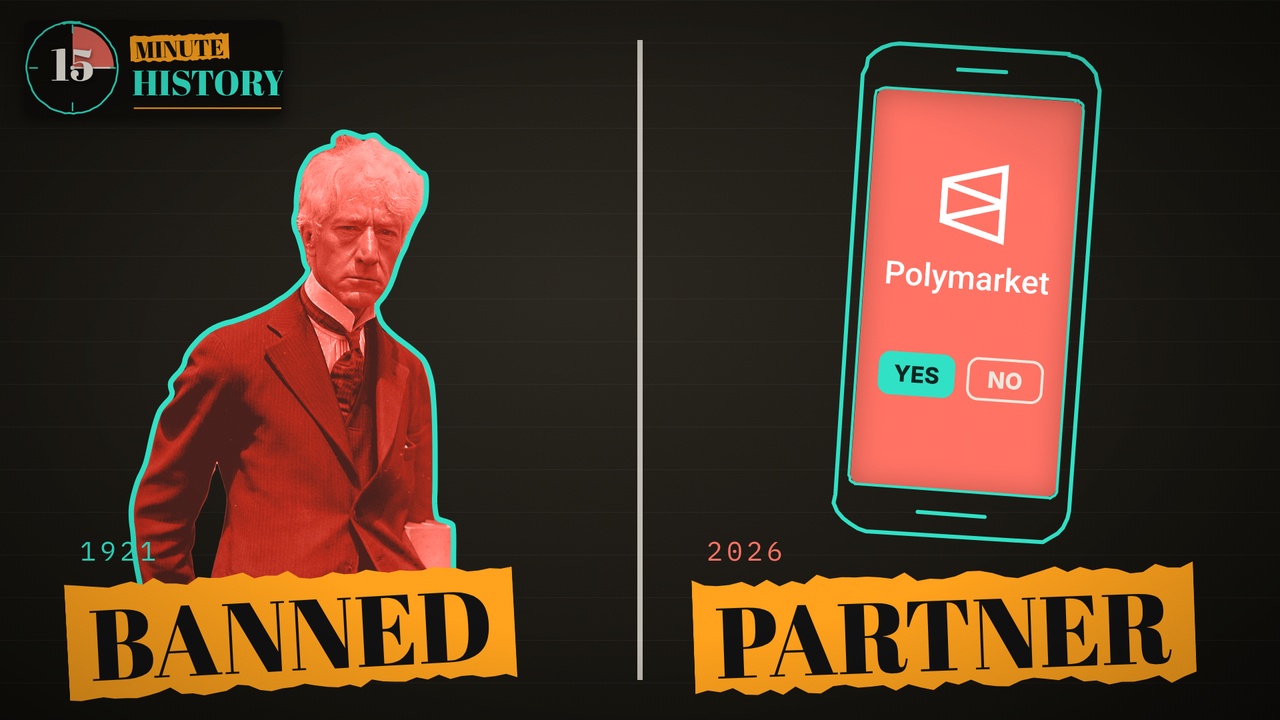
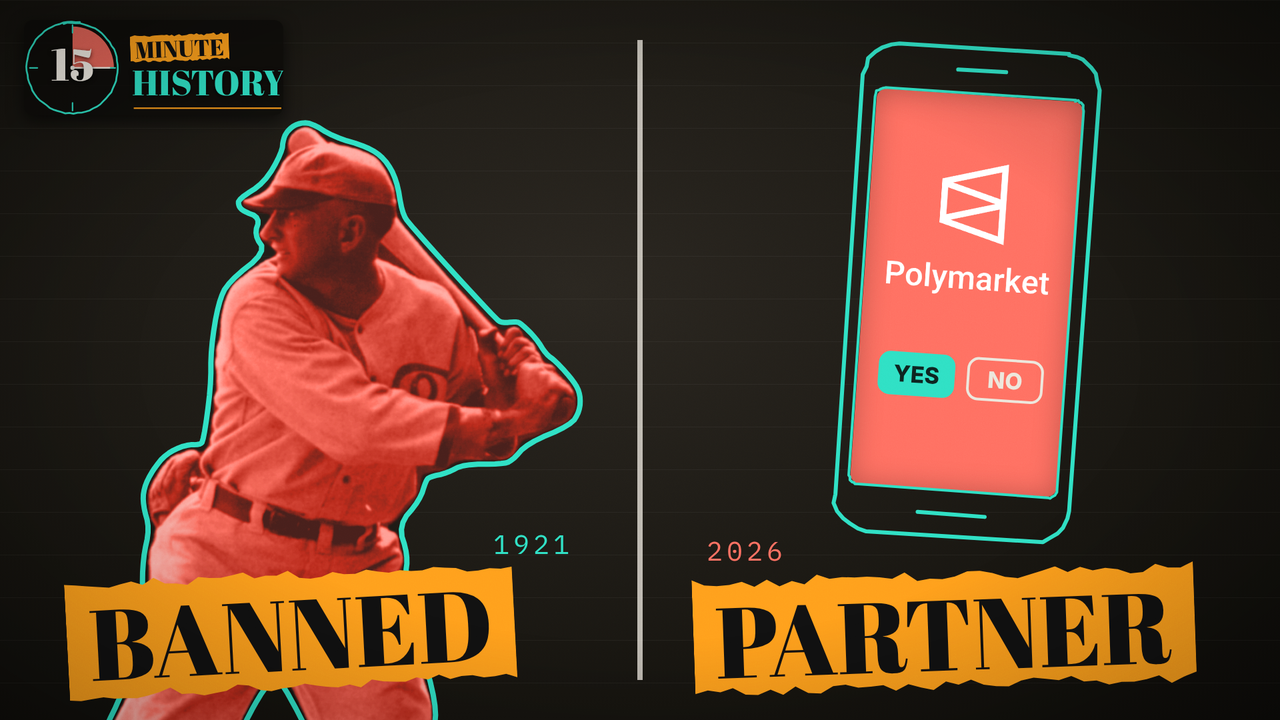
Black Sox: thumbnail C uses Shoeless Joe Jackson waist-up in place of Landis
Claude-Session: https://claude.ai/code/session_01SGt9jSHpU4vZdgCFmwb4jS

Changed region(s): [[0.0625, 0.1528, 0.4688, 0.825], [0.0625, 0.9167, 0.3438, 1.0]]

diff --git a/projects/Black_Sox/src/Thumbnail.tsx b/projects/Black_Sox/src/Thumbnail.tsx
@@ -2,7 +2,7 @@
 // 1280x720 (tools/thumbs.mjs renders frame 140).
 //   A · the split: Shoeless Joe Jackson (1920, White Sox) cut out, teal half / coral half, SAY IT / AIN'T SO under him.
 //   B · title-led: the real 1908 Polo Grounds crowd, "before the Black Sox..." and EVERYBODY BET.
-//   C · then vs now: Landis 1921 (BANNED) beside the hand-drawn Polymarket phone 2026 (PARTNER).
+//   C · then vs now: Shoeless Joe Jackson, waist up (BANNED 1921) beside the hand-drawn Polymarket phone (PARTNER 2026).
 import React from 'react';
 import {AbsoluteFill, Img, staticFile} from 'remotion';
 import {Wordmark} from './kit/Intro';
@@ -92,20 +92,22 @@ export const ThumbB: React.FC = () => (
   </PaletteCtx.Provider>
 );
 
-const LS = {src: 'img/ch01/landis_street_1924_crop.jpg', size: [3280, 2430] as [number, number], mask: MASKS.landis_street};
 
 export const ThumbC: React.FC = () => {
-  const place: Place = {left: 540 - 1813 * 0.4, top: 200 - 491 * 0.4, scale: 0.4};
+  // Jackson from the waist up: cap top at y 190, the face centred on x 500, the belt just above the BANNED tape
+  const place: Place = {left: 500 - 715 * 1.12, top: 190 - 154 * 1.12, scale: 1.12};
   return (
     <PaletteCtx.Provider value={PALETTES.locked}>
       <AbsoluteFill style={{background: '#15130f', overflow: 'hidden'}}>
         <DarkPaper />
-        <Cutout src={LS.src} size={LS.size} place={place} alpha={LS.mask.alpha} />
-        <Tint mask={LS.mask.alpha} place={place} size={LS.size} />
-        <Traced paths={LS.mask.data.shapes.subject} place={place} at={0} dur={1} width={8} />
+        <div style={{position: 'absolute', left: 0, top: 0, width: 956, height: 1080, overflow: 'hidden'}}>
+          <Cutout src={JX.src} size={JX.size} place={place} alpha={JX.mask.alpha} />
+          <Tint mask={JX.mask.alpha} place={place} size={JX.size} />
+          <Traced paths={JX.mask.data.shapes.subject} place={place} at={0} dur={1} width={8} />
+        </div>
         <div style={{position: 'absolute', left: 956, top: 60, width: 8, height: 960, background: 'rgba(244,239,230,0.75)'}} />
         <PhoneSketch x={1270} y={70} w={360} at={0} rot={4} />
-        <div style={{position: 'absolute', left: 120, top: 800, fontFamily: JF.mono, fontSize: 40, letterSpacing: 6, color: TEAL}}>1921</div>
+        <div style={{position: 'absolute', left: 740, top: 790, fontFamily: JF.mono, fontSize: 40, letterSpacing: 6, color: TEAL}}>1921</div>
         <div style={{position: 'absolute', left: 1060, top: 800, fontFamily: JF.mono, fontSize: 40, letterSpacing: 6, color: CORAL}}>2026</div>
         <Highlight text="BANNED" x={100} y={855} size={150} at={0} seed={79} rot={-3} />
         <Highlight text="PARTNER" x={1040} y={855} size={150} at={0} seed={81} rot={-2} />
